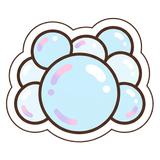
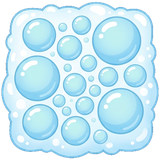
거품을 꿈의집처럼: 몽글몽글 비눗방울이 빽빽한 거품 덩어리로 칸을 꽉 채우고, 옆 거품 칸끼리는 경계 없이 한 덩어리로 이어짐(무늬도 판 기준으로 이어지고, 퍼지거나 터지면 바로 다시 이음), 바깥 둘레만 하늘색 거품 테. 목표 칩·터질 때 그림도 거품 덩어리로, 아이템 그림 ?v=3

diff --git a/css/style.css b/css/style.css
@@ -271,8 +271,13 @@ button { font-family: inherit; color: inherit; cursor: pointer; border: 0; backg
 .cellbg.exit::before { content: ''; position: absolute; z-index: 1; left: 50%; bottom: -1px; width: 14px; height: 8px; margin-left: -7px; background: #ff9a4d; clip-path: polygon(0 0, 100% 0, 50% 100%); }
 .tile .inner.locked .band { position: absolute; inset: 1px; pointer-events: none; border-radius: 12px; background: rgba(255, 160, 200, .4); box-shadow: inset 0 0 0 3px rgba(240, 110, 165, .95); }
 .tile .inner.locked .lockimg { position: absolute; left: 18%; top: 18%; width: 64%; height: 64%; opacity: .95; filter: drop-shadow(0 0 2px #fff) drop-shadow(0 2px 0 #4a426240); }
-.tile .inner.bubble { border-radius: 12px; background: #e3f3fd; }
-.tile .inner.bubble img { opacity: .95; transform: scale(.82) translateY(-2%); }
+/* 거품: 몽글몽글한 거품 무늬로 칸을 꽉 채우고, 이웃 거품 칸과는 경계 없이 한 덩어리로 (바깥 둘레만 하얀 거품 테) */
+.tile .inner.bubble { position: absolute; inset: 1px; width: auto; height: auto; border-radius: 13px; background: url(../assets/img/obst/foam_tex.webp) 0 0 / calc(var(--s) * 3) calc(var(--s) * 3); background-origin: border-box; border: 3px solid #a8dcf6; }
+.tile .inner.bubble img { display: none; }
+.tile .inner.bubble.n-t { top: 0; border-top: 0; border-top-left-radius: 0; border-top-right-radius: 0; }
+.tile .inner.bubble.n-b { bottom: 0; border-bottom: 0; border-bottom-left-radius: 0; border-bottom-right-radius: 0; }
+.tile .inner.bubble.n-l { left: 0; border-left: 0; border-top-left-radius: 0; border-bottom-left-radius: 0; }
+.tile .inner.bubble.n-r { right: 0; border-right: 0; border-top-right-radius: 0; border-bottom-right-radius: 0; }
 .tile .inner.ing { animation: bob 1.2s ease-in-out infinite; }
 .tile .inner.ing { border-radius: 12px; background: #fff3df; box-shadow: inset 0 0 0 3px #ff9f43; }
 .tile .inner.ing img { transform: scale(.78); }

diff --git a/js/game.js b/js/game.js
@@ -623,6 +623,18 @@ function makeTile(t) {
   boardEl.appendChild(el);
   return t;
 }
+// 거품 칸끼리 한 덩어리로: n-t/r/b/l = 그쪽 이웃도 거품이라 경계 없이 이어 그림 (시럽처럼)
+function foamJoin() {
+  const g = B.grid;
+  if (!g) return;
+  const fo = (r, c) => inside(r, c) && g[r][c]?.block === 'bubble';
+  Board.each(g, (t, r, c) => {
+    if (t?.block !== 'bubble' || !t.inner) return;
+    [['n-t', -1, 0], ['n-r', 0, 1], ['n-b', 1, 0], ['n-l', 0, -1]].forEach(([k, dr, dc]) => t.inner.classList.toggle(k, fo(r + dr, c + dc)));
+    // 무늬를 판 전체 기준으로 맞춰 칸이 바뀌어도 이어져 보이게
+    t.inner.style.backgroundPosition = `${-(c * B.S + (fo(r, c - 1) ? 0 : 1))}px ${-(r * B.S + (fo(r - 1, c) ? 0 : 1))}px`;
+  });
+}
 function refreshTile(t) {
   const inner = t.inner;
   inner.className = 'inner';
@@ -630,6 +642,7 @@ function refreshTile(t) {
     inner.classList.add('block', t.block);
     const img = t.block === 'bubble' ? 'bubble' : t.block === 'weed' ? (t.hp >= 2 ? 'weed2' : 'weed1') : t.hp >= 2 ? 'gift' : 'box';
     inner.innerHTML = `<img src="${ITEM(img)}" draggable="false">`;
+    if (t.block === 'bubble') foamJoin();
     return;
   }
   if (t.type === ING) {
@@ -1405,7 +1418,7 @@ function hitFx(res, T) {
     }
     const k = tile.block === 'weed' ? 'weed' : tile.block === 'bubble' ? 'bubble' : 'box';
     if (gone || k !== 'box') flyToGoal(ITEM(tile.block === 'weed' ? 'weed1' : tile.block === 'bubble' ? 'bubble' : 'box'), p, goalChip(k), '#ffd84d');
-    if (gone) popTile(tile, 0);
+    if (gone) { popTile(tile, 0); if (tile.block === 'bubble') foamJoin(); }
     else { refreshTile(tile); squish(tile); }
   }, at(r, c)));
   if (res.weeds.length) {

diff --git a/index.html b/index.html
@@ -14,7 +14,7 @@
 <link rel="icon" href="assets/img/app/icon-192.png?v=2">
 <link rel="preconnect" href="https://fonts.googleapis.com">
 <link href="https://fonts.googleapis.com/css2?family=Poor+Story&display=swap" rel="stylesheet">
-<link rel="stylesheet" href="css/style.css?v=56">
+<link rel="stylesheet" href="css/style.css?v=58">
 </head>
 <body>
 <div id="app">
@@ -270,10 +270,10 @@ window.__errs = [];
 addEventListener('error', e => window.__errs.push(['error', e.message, (e.filename || '') + ':' + e.lineno + ':' + e.colno + '\n' + (e.error?.stack || '')]));
 addEventListener('unhandledrejection', e => window.__errs.push(['promise', String(e.reason?.message || e.reason), e.reason?.stack || '']));
 </script>
-<script src="js/data.js?v=43"></script>
+<script src="js/data.js?v=45"></script>
 <script src="js/audio.js?v=29"></script>
 <script src="js/board.js?v=31"></script>
-<script src="js/game.js?v=53"></script>
+<script src="js/game.js?v=55"></script>
 <script src="js/life.js?v=47"></script>
 <script src="js/tutor.js?v=35"></script>
 <script src="js/meta.js?v=40"></script>

diff --git a/js/data.js b/js/data.js
@@ -124,7 +124,7 @@ const BODY = id => `assets/img/chars/${id}.png`;
 const TILE = id => `assets/img/tiles/${id}.png?v=2`; // 테두리를 매끈하게 다시 그려서 새로 받게
 // 아이템은 치이카와 원작 도구로: 줄폭탄=랏코 검, 폭탄=동글 폭탄, 무지개=경단, 비행기=종이비행기 (VARCO로 그림)
 const ITEM_ALIAS = { rocket: 'sword_o', bomb: 'bombball_o', rainbow: 'dango3_o', plane: 'paperplane_o' }; // _o: 테두리를 그림에 미리 그려 둔 판 (CSS 필터는 보너스 타임에 렉)
-const ITEM = name => `assets/img/items/${ITEM_ALIAS[name] || name}.png?v=2`; // v: 그림을 바꾸면 올려서 폰에 남은 옛 그림 대신 새로 받게
+const ITEM = name => `assets/img/items/${ITEM_ALIAS[name] || name}.png?v=3`; // v: 그림을 바꾸면 올려서 폰에 남은 옛 그림 대신 새로 받게
 // 전신 그림이 없는 캐릭터는 얼굴로
 const NO_BODY = new Set(['kani', 'shooting', 'darkstar', 'goblin', 'beetle']);
 const FXI = n => `assets/img/fx/${n}.png`;
